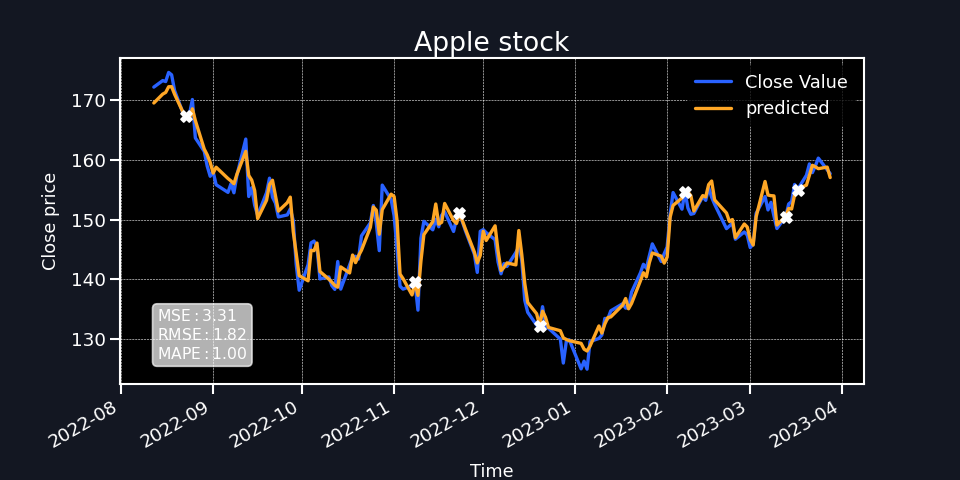
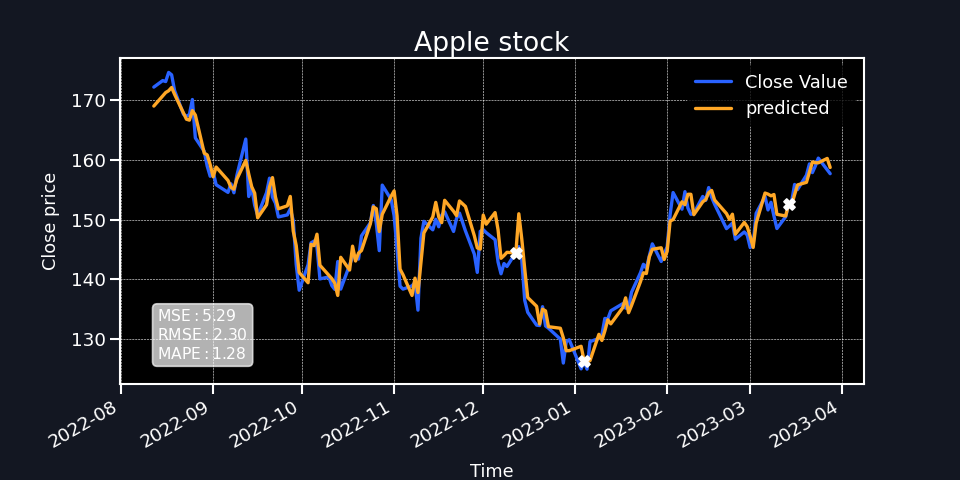
added transformers (BETA)

diff --git a/stockpy/transformer/_transformer.py b/stockpy/transformer/_transformer.py
@@ -1,0 +1,122 @@
+import math
+import torch
+import torch.nn as nn
+import torch.nn.functional as F
+from torch.autograd import Variable
+from torch.nn.init import xavier_uniform_
+from ..config import nn_args, shared, training
+
+class Transformer(nn.Module):
+    """
+    A class representing a Transformer model for stock prediction.
+    The Transformer model is designed to capture long-range dependencies in time series data, such as stock prices,
+    by leveraging self-attention mechanisms. It consists of an embedding layer, followed by a series of
+    Transformer Encoder layers and a fully connected layer for prediction.
+    :param input_size: The number of input features for the Transformer model.
+    :type input_size: int
+    :param hidden_size: The number of dimensions for the model's internal representation.
+    :type hidden_size: int
+    :param num_layers: The number of Transformer Encoder layers in the model.
+    :type num_layers: int
+    :param output_size: The number of output units for the Transformer model, corresponding to the predicted target variable(s).
+    :type output_size: int
+    :param dropout: The dropout percentage applied between layers for regularization, preventing overfitting.
+    :type dropout: float
+    :example:
+        >>> from stockpy.neural_network import Transformer
+        >>> transformer = Transformer()
+    """
+    def __init__(self):
+        super().__init__()
+        self.embedding = nn.Linear(nn_args.input_size, nn_args.hidden_size)
+        self.pos_encoding = PositionalEncoding(nn_args.hidden_size)
+        self.transformer = nn.TransformerEncoder(
+            nn.TransformerEncoderLayer(
+                nn_args.hidden_size, nn_args.input_size, nn_args.hidden_size, shared.dropout),
+            nn_args.num_layers
+        )
+        self.fc = nn.Linear(nn_args.hidden_size, nn_args.output_size)
+        
+        self.init_weights()
+
+    def forward(self, x: torch.Tensor) -> torch.Tensor:
+        """
+        Defines the forward pass of the Transformer model.
+        :param x: The input tensor.
+        :type x: torch.Tensor
+        :returns: The output tensor, corresponding to the predicted target variable(s).
+        :rtype: torch.Tensor
+        """
+        x = self.embedding(x)
+        x = self.pos_encoding(x)
+        x = self.transformer(x)
+        x = x.mean(dim=1) # Average over sequence length
+        x = self.fc(x)
+
+        return x
+
+    def init_weights(self) -> None:
+        """
+        Initializes the weights of the Transformer model using Xavier initialization.
+        """
+        for p in self.parameters():
+            if p.dim() > 1:
+                xavier_uniform_(p)
+
+    def to(self, device: torch.device) -> None:
+        """
+        Moves the model to the specified device.
+        :param device: The device to move the model to.
+        :type device: torch.device
+        """
+        super().to(device)
+
+    
+    @property
+    def model_type(self) -> str:
+        """
+        Returns the type of model.
+        :returns: The model type as a string.
+        :rtype: str
+        """
+        return "neural_network"
+        
+class PositionalEncoding(nn.Module):
+    """
+    A class representing the positional encoding used in the Transformer model.
+    The positional encoding is added to the input embeddings to inject positional information
+    into the sequence.
+    :param d_model: The number of expected features in the input (i.e. the embedding dimension).
+    :type d_model: int
+    :param dropout: The dropout percentage applied to the positional encoding for regularization,
+                    preventing overfitting.
+    :type dropout: float
+    :param max_len: The maximum length of a sequence to be encoded by the positional encoding.
+    :type max_len: int
+    :example:
+        >>> from transformer import PositionalEncoding
+        >>> pe = PositionalEncoding(d_model=512, dropout=0.1, max_len=10000)
+    """
+    def __init__(self, d_model: int, dropout: float = 0.1, max_len: int = 5000):
+        super().__init__()
+        self.dropout = nn.Dropout(p=dropout)
+
+        # Compute the positional encodings once in log space
+        pe = torch.zeros(max_len, d_model)
+        position = torch.arange(0, max_len, dtype=torch.float).unsqueeze(1)
+        div_term = torch.exp(torch.arange(0, d_model, 2).float() * (-math.log(10000.0) / d_model))
+        pe[:, 0::2] = torch.sin(position * div_term)
+        pe[:, 1::2] = torch.cos(position * div_term)
+        pe = pe.unsqueeze(0).transpose(0, 1)
+        self.register_buffer('pe', pe)
+
+    def forward(self, x: torch.Tensor) -> torch.Tensor:
+        """
+        Adds the positional encoding to the input tensor.
+        :param x: The input tensor.
+        :type x: torch.Tensor
+        :returns: The output tensor, with the positional encoding added to the input embeddings.
+        :rtype: torch.Tensor
+        """
+        x = x + self.pe[:x.size(0), :]
+        return self.dropout(x)

diff --git a/stockpy/transformer/_base.py b/stockpy/transformer/_base.py
@@ -1,0 +1,14 @@
+from ..base import Base
+from ..config import shared
+from ._transformer import Transformer as _Transformer
+
+class Transformer(Base):
+
+    def __init__(self,
+                 **kwargs
+                ):
+        
+        for key, value in kwargs.items():
+            setattr(shared, key, value)
+
+        super().__init__(model=_Transformer(), **kwargs)

diff --git a/stockpy/__init__.py b/stockpy/__init__.py
@@ -1,4 +1,5 @@
 from .neural_network import _base
 from .probabilistic import _base
+from .transformer import _base
 from .utils import *
 from .base import Base

diff --git a/stockpy/transformer/__init__.py b/stockpy/transformer/__init__.py
@@ -1,0 +1,1 @@
+from ._base import Transformer

diff --git a/README.md b/README.md
@@ -19,14 +19,15 @@
 ## Description
 **stockpy** is a Python Machine Learning library designed to facilitate stock market data analysis and predictions. It currently supports the following algorithms:
 
+- Deep Markov Model (DeepMarkovModel)
+- Gaussian Hidden Markov Models (GaussianHMM)
+- Bayesian Neural Networks (BayesianNN)
 - Long Short Term Memory (LSTM)
 - Bidirectional Long Short Term Memory (BiLSTM)
 - Gated Recurrent Unit (GRU)
 - Bidirectional Gated Recurrent Unit (BiGRU)
 - Multilayer Perceptron (MLP)
-- Gaussian Hidden Markov Models (GaussianHMM)
-- Bayesian Neural Networks (BayesianNN)
-- Deep Markov Model (DeepMarkovModel)
+- Transformer (`Warning`: this module is still in development and contains errors)
 
 **stockpy** can be used to perform a range of tasks such as detecting relevant trading patterns, making predictions and generating trading signals.
 
